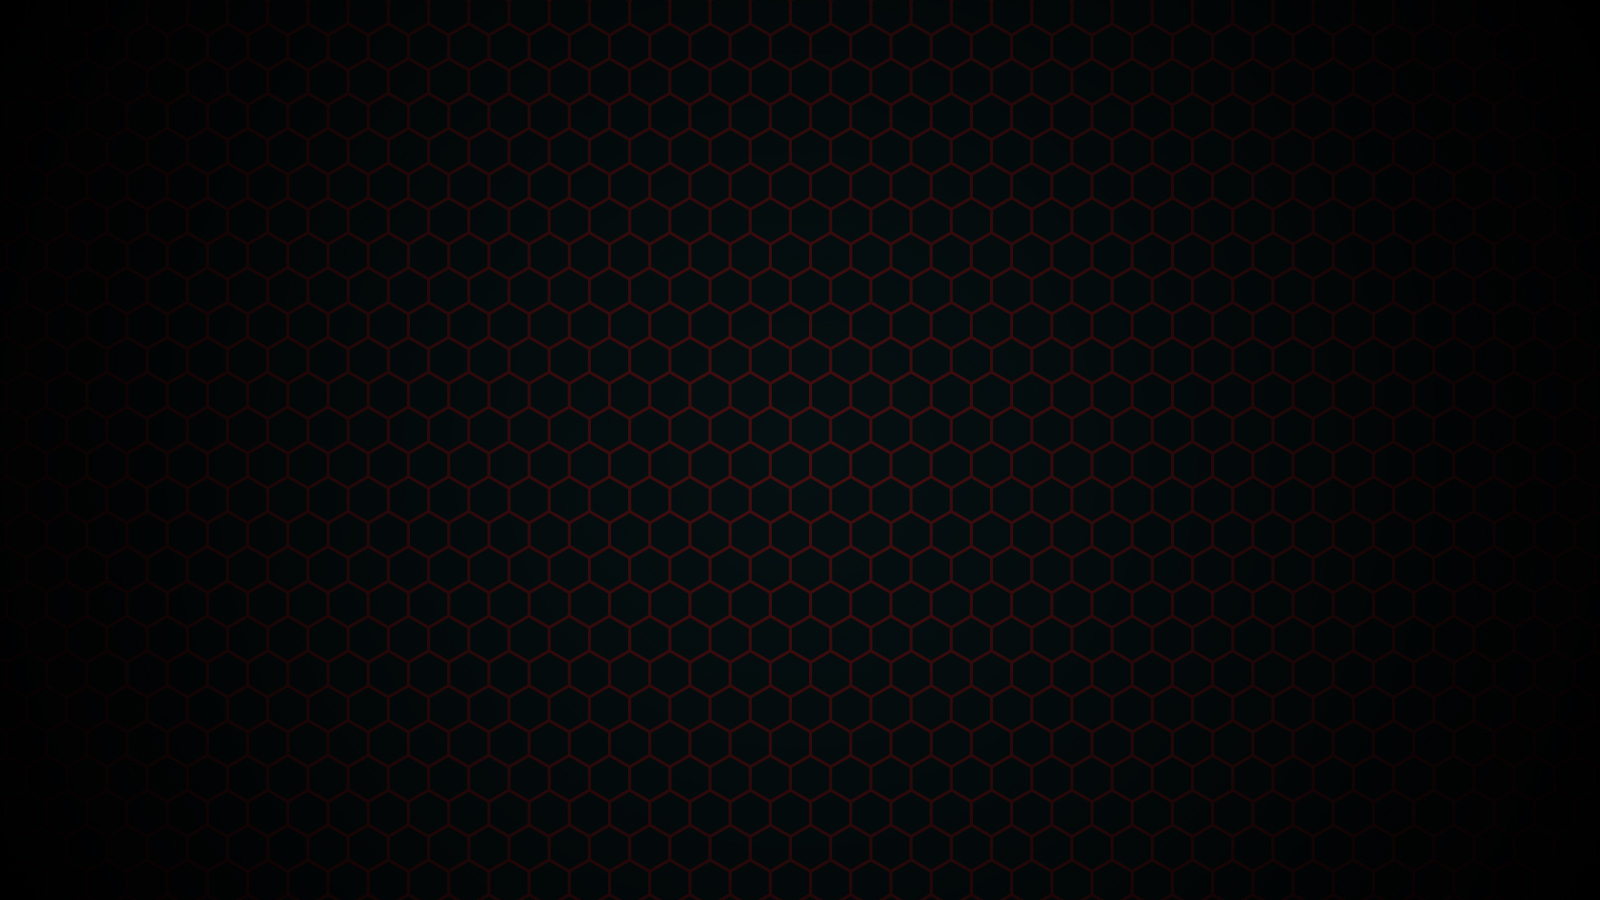
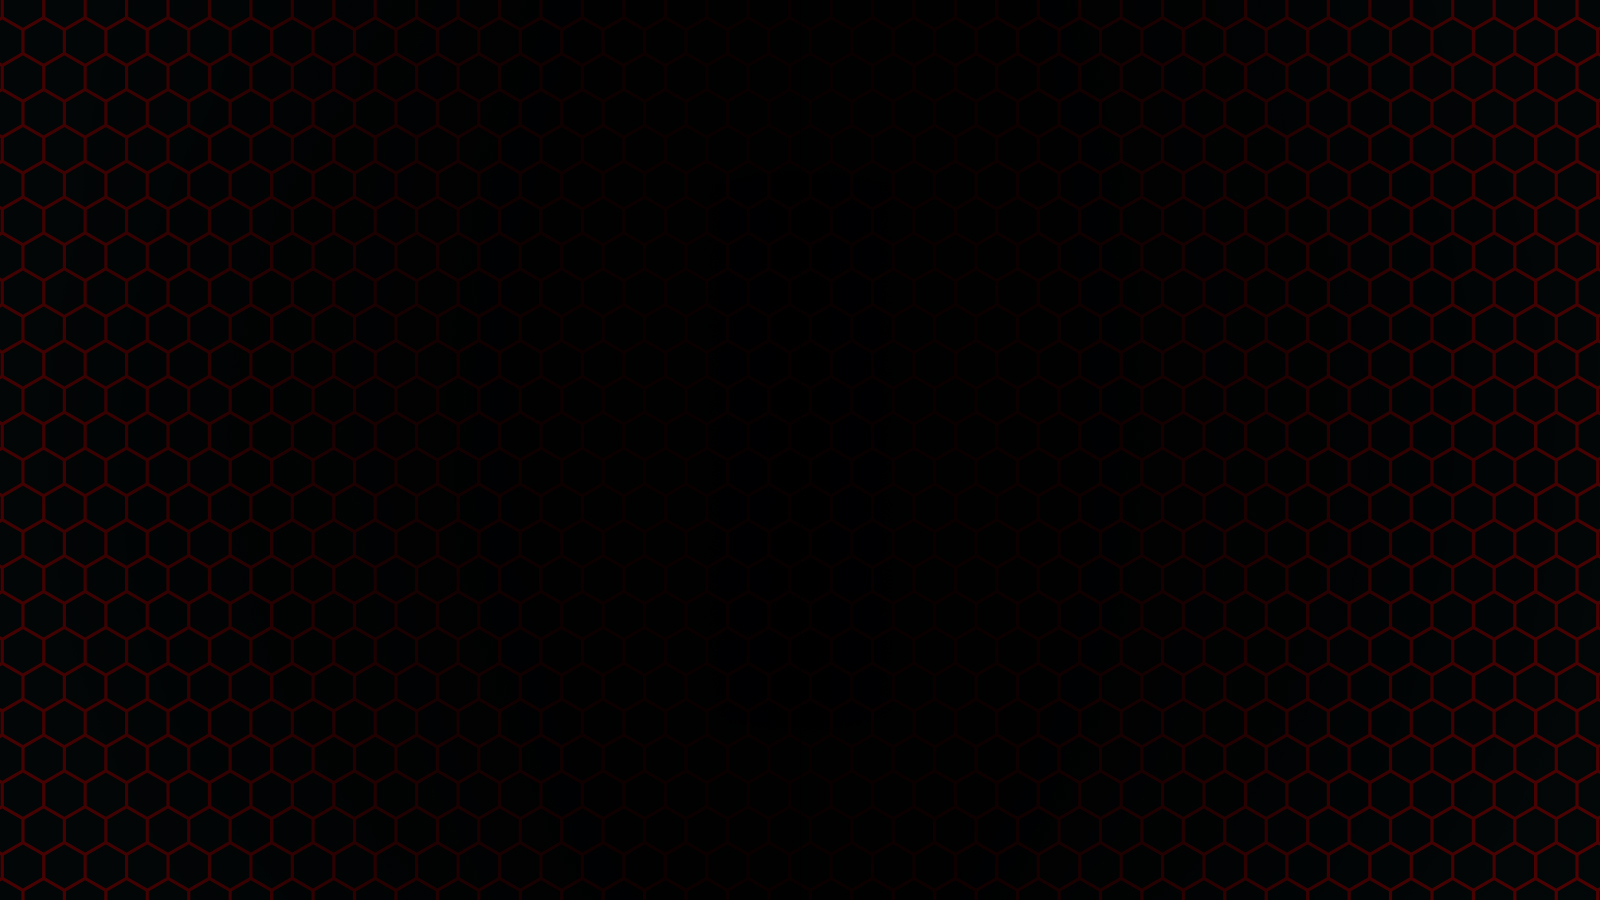
background image and leaderboard patch

Changed region(s): [[0.0, 0.0, 1.0, 1.0], [0.5938, 0.0, 0.625, 0.0311]]

diff --git a/controllers/leaderboard.js b/controllers/leaderboard.js
@@ -9,7 +9,7 @@ exports.leaderboard=(req,res)=>{
 
       }
       else if(data){
-
+        console.log("-------");
         console.log(data.Items);
         res.cookie('dataLeaderboard', data, { httpOnly: true });
         res.render("leaderboards",

diff --git a/public/css/card_style.css b/public/css/card_style.css
@@ -82,8 +82,7 @@
 }
 
 .dashboardClass{
-  /* background-image: url(https://files.slack.com/files-pri/TLJF6GQPK-F017WU27K39/red_1.jpg); */
-  background: #000;
+  background-image: url(/images/background.jpg);
 }
 .cardModified{
   margin:0px;
